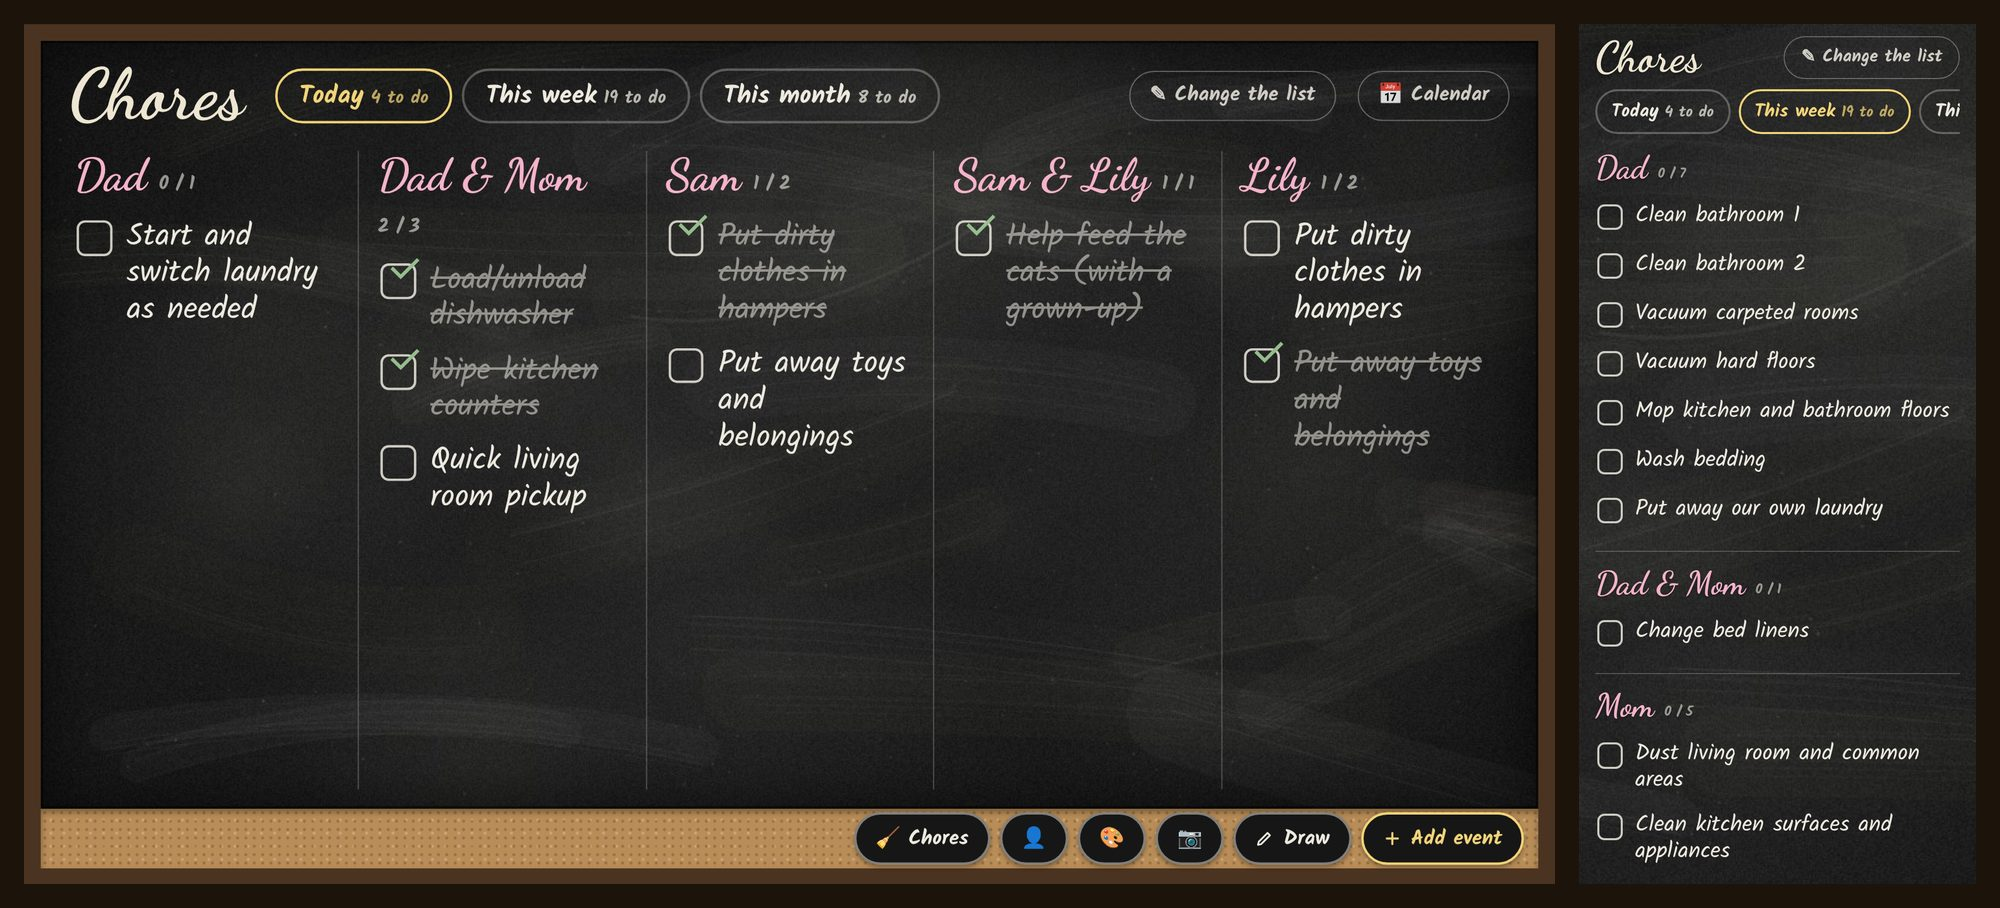
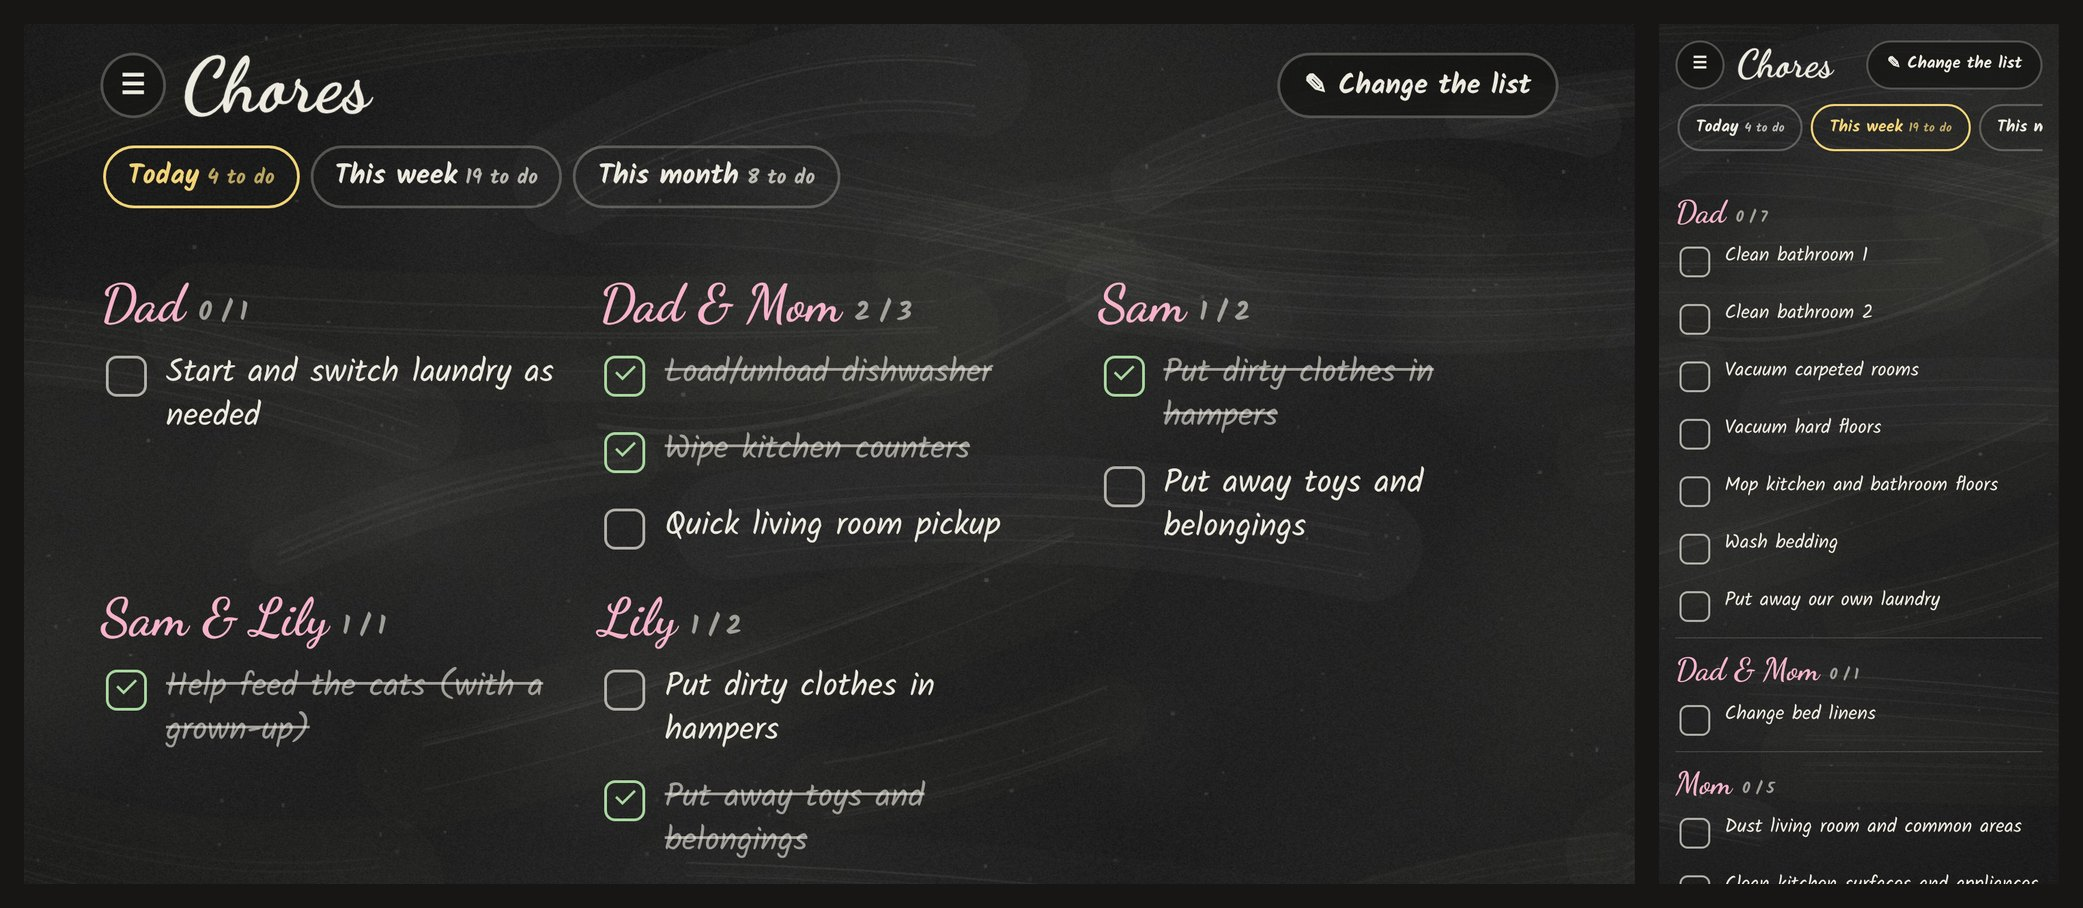
Family Chalk Planner 0.13.0: the board rebuilt
New README screenshots from the rebuilt board (the wall, the four
backgrounds, chores on a tablet and a phone) plus one of the board on a
tablet with its tools. Version 0.13.0 in package.json, and the notes are
now the 0.13.0 section of CHANGELOG.md.

Claude-Session: https://claude.ai/code/session_01R69LkEFNausYXChs6sqJWP

diff --git a/README.md b/README.md
@@ -16,7 +16,9 @@ A chalkboard-style family wall calendar for a wall-mounted screen, edited from a
 - **Small and private.** It runs on your own network as one Node.js service (or one Docker container) with a SQLite file. No account and no cloud service of its own; screens, fonts and pictures all come from your own server.
 - **Safe for a family.** Screens are paired with a code; people sign in with a passkey or password + authenticator app; an admin console shows every sign-in, screen and change.
 
-![Chores on the board and on a phone: today's chores by person, with ticked-off ones crossed out](docs/images/chores.jpg)
+![The board on a tablet in its wooden frame, with the tools along the bottom: Draw, Month title, Border, photos, style and Add event](docs/images/tablet.jpg)
+
+![Chores on a tablet and on a phone: today's chores by person, with ticked-off ones crossed out](docs/images/chores.jpg)
 
 <p align="center"><img src="docs/images/backgrounds.jpg" alt="The same board on green chalkboard, cork, kraft paper and whiteboard backgrounds" width="49%"> <img src="docs/images/console.jpg" alt="The admin console on a phone: pairing a screen, and board settings" width="49%"></p>
 

diff --git a/CHANGELOG.md b/CHANGELOG.md
@@ -4,7 +4,7 @@ What changed in each release. `deploy/update.sh` installs the newest release; th
 one also appear on the GitHub Releases page. Versions follow [semantic versioning](https://semver.org/)
 (while below 1.0, a new minor version can change how things work).
 
-## Unreleased — the board rebuilt (next release)
+## 0.13.0 — the board rebuilt
 - **New screens everywhere:** the wall, the tablet, family screens, chores and every page are rebuilt
   (React + TypeScript). They look and work the same, and they're sharp on a 4K wall. The board as it
   was is kept at **/classic** (and /classic/edit) for a while, in case something's missing.
